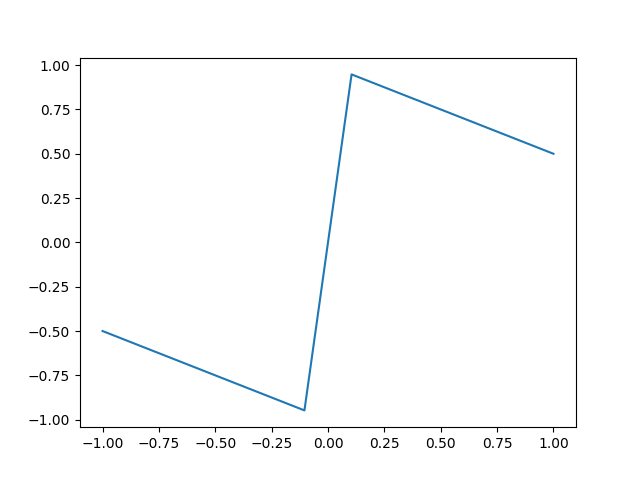
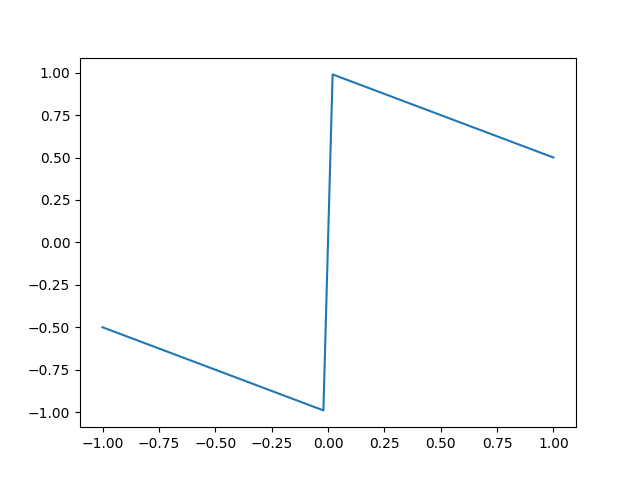
Updated Chapter02 material.

diff --git a/atapChapter02.py b/atapChapter02.py
@@ -44,7 +44,8 @@ A simple step function for use in examples throughout the rest of chapter 02.
   return result
 
 fig,b = plt.subplots()
+grid = np.linspace(-1,1,50)
 
-b.plot(XX,f(XX)) 
+b.plot(grid,f(grid)) 
 
 plt.savefig('figures/ch02/figure03.png')
